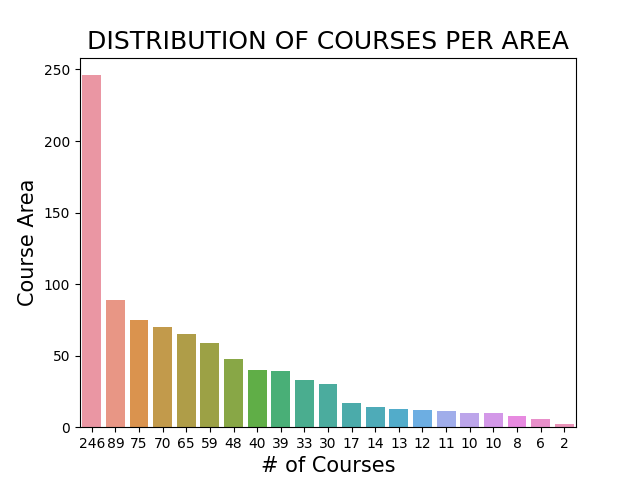
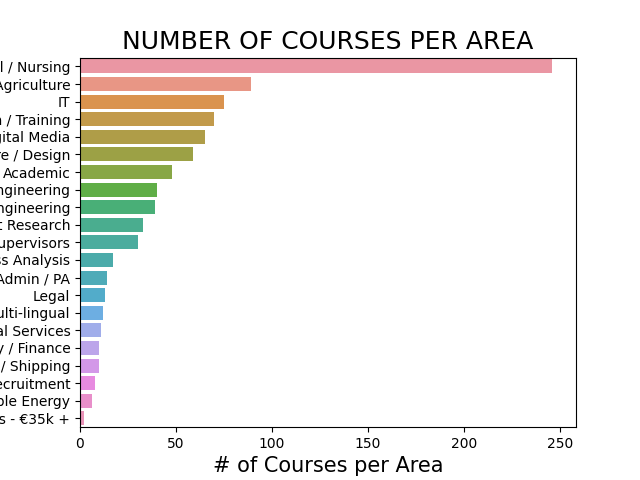
"added visualisations"

Changed region(s): [[0.0, 0.0625, 0.9062, 1.0]]

diff --git a/Micro Credentials Analysis.py b/Micro Credentials Analysis.py
@@ -9,7 +9,6 @@ import matplotlib.pyplot as plt
 import os
 from bs4 import BeautifulSoup
 
-
 # importing data file CSV format, rename csv
 
 current_dir_path = os.path.dirname(os.path.realpath(__file__))
@@ -72,7 +71,7 @@ merged_df = pd.merge(clean_courses_df, address_df, on='Awarding_Body', how='left
 
 
 # grouping the course data by course area ID to provide me with a total count of courses per area
-merged_df_group_course_area = merged_df.groupby(['Course_Area_ID']).count()
+merged_group_course_area = merged_df['Course_Area'].value_counts()
 
 # data visualisation
 
@@ -88,19 +87,28 @@ plt.savefig("VacanciesPerSector.png", dpi=100)
 plt.show()
 
 # visuals for course data
+palette = ['tab:purple', 'tab:pink']
 sns.countplot(y="Awarding_Body_Short",
-              data=merged_df)
+              data=merged_df,
+              hue='Awarding_Body_Type',
+              palette=palette,
+              order=merged_df['Awarding_Body_Short'].value_counts().index)
+plt.legend(bbox_to_anchor=(1.05, 1), loc=2, borderaxespad=0.)
 plt.xlabel("# of Courses", size=15)
 plt.ylabel("Awarding Body", size=15)
-plt.title("Number of courses per awarding body", size=18)
+plt.title("NUMBER OF COURSES PER AWARDING BODY", size=18)
 plt.savefig("CoursesPerAwardingBody.png", dpi=100)
 plt.show()
 
 sns.countplot(y="County",
-              data=merged_df)
+              data=merged_df,
+              hue='Awarding_Body_Type',
+              palette=palette,
+              order=merged_df['County'].value_counts().index)
+plt.legend(bbox_to_anchor=(1.05, 1), loc=2, borderaxespad=0.)
 plt.xlabel("# of Courses", size=15)
 plt.ylabel("County", size=15)
-plt.title("Number of courses per County", size=18)
+plt.title("NUMBER OF COURSES PER COUNTY", size=18)
 plt.savefig("CoursesPerCounty.png", dpi=100)
 plt.show()
 
@@ -120,7 +128,6 @@ width = 2*np.pi / len(vacancies_df.index)
 indexes = list(range(1, len(vacancies_df.index)+1))
 angles = [element * width for element in indexes]
 plt.title("NUMBER OF VACANCIES PER SECTOR", size=15)
-
 bars = ax.bar(
     x=angles,
     height=heights,
@@ -129,7 +136,6 @@ bars = ax.bar(
     linewidth=2,
     edgecolor="white",
     color="#A020F0")
-
 labelPadding = 4
 for bar, angle, height, label in zip(bars,angles, heights, vacancies_df["category_text"]):
     rotation = np.rad2deg(angle)
@@ -152,35 +158,11 @@ for bar, angle, height, label in zip(bars,angles, heights, vacancies_df["categor
 plt.savefig("VacanciesPerSectorCircle.png", dpi=100)
 plt.show()
 
-
-#  Reorder it based on values:
-ordered_df = merged_df_group_course_area.sort_values(by='Course_Area')
-my_range = range(1, len(merged_df_group_course_area.index) + 1)
-
-# Create a color if the group is "B"
-my_color = np.where(ordered_df['Course_Area'] == 'Healthcare / Medical / Nursing', 'orange', 'skyblue')
-my_size = np.where(ordered_df['Course_Area'] == 'Healthcare / Medical / Nursing', 70, 30)
-
-# The horizontal plot is made using the hline() function
-plt.hlines(y=my_range, xmin=0, xmax=ordered_df['ID'], color=my_color, alpha=0.4)
-plt.scatter(ordered_df['Course_Area'], my_range, color=my_color, s=my_size, alpha=1)
-
-# Add title and axis names
-plt.yticks(my_range, ordered_df['Course_Area'])
-plt.title("DISTRIBUTION OF COURSES PER AREA", loc='left')
-plt.xlabel('# of courses')
-plt.ylabel('Course_Area')
-plt.savefig("Course_Area.png", dpi=100)
-# show the graph
-plt.show()
-
-
-sns.barplot(x="ID",
-            y="Course_Area",
-            data=merged_df_group_course_area,
-            order=merged_df_group_course_area.sort_values('ID', ascending=False).Course_Area)
-plt.xlabel("# of Courses", size=15)
+sns.countplot(y="Course_Area",
+              data=merged_df,
+              order=merged_df['Course_Area'].value_counts().index)
+plt.xlabel("# of Courses per Area", size=15)
 plt.ylabel("Course Area", size=15)
-plt.title("DISTRIBUTION OF COURSES PER AREA", size=18)
+plt.title("NUMBER OF COURSES PER AREA", size=18)
 plt.savefig("CoursesPerArea.png", dpi=100)
 plt.show()
